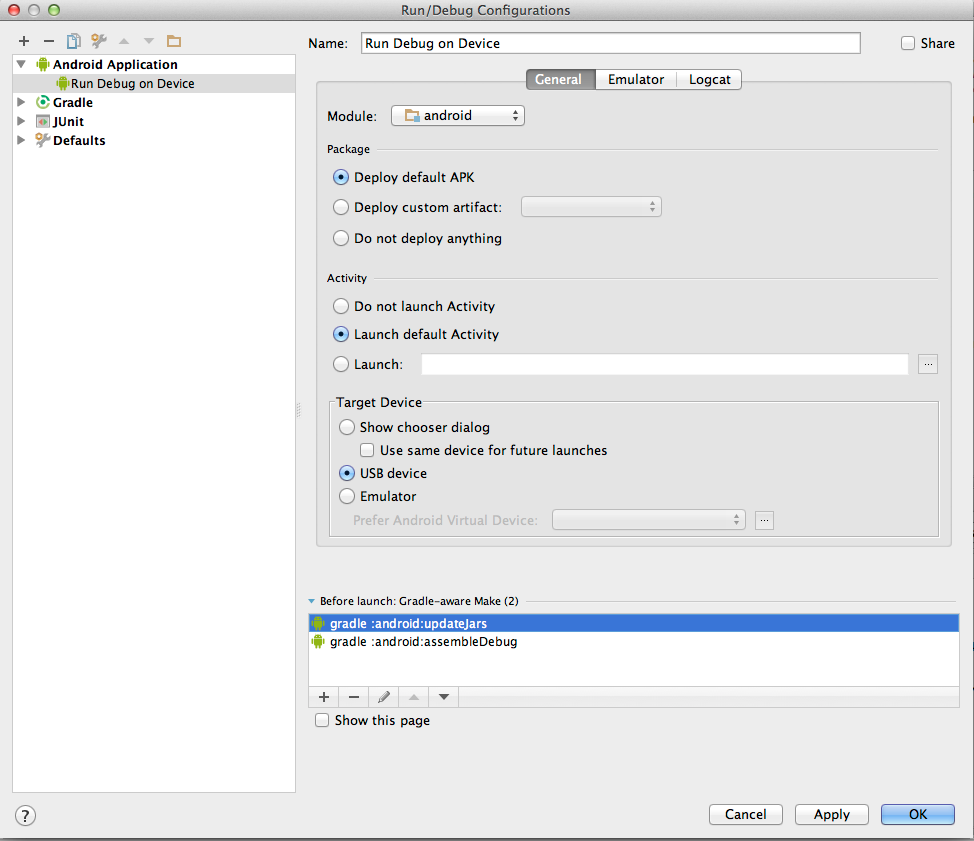
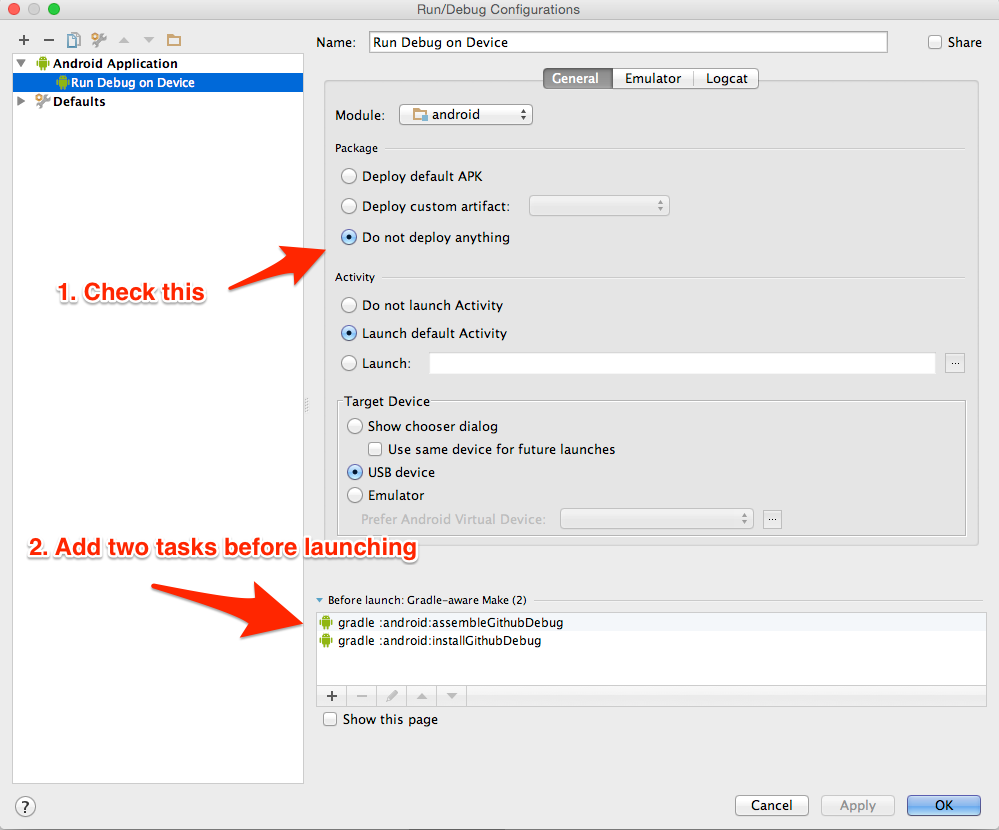
updated android studio configuration removed ACRA configuration from private properties as it's baked into the build.gradle file now. Updated the PNG to include highlights to things you must set.

diff --git a/README.md b/README.md
@@ -12,24 +12,44 @@ make
 [![Add new run configuration](https://raw.githubusercontent.com/mozilla/MozStumbler/dev/docs/screencaps/add_new_config.png)](https://raw.githubusercontent.com/mozilla/MozStumbler/dev/docs/screencaps/add_new_config.png)
 
 Setup the Android Application to use two gradle aware make targets.
-Make sure you run updateJars first, then assembleDebug.
+You must set Package to be installed to "Do not deploy anything".
+Make sure you run assembleGithubDebug, then installGithubDebug.
 
 [![Setup new run configuration](https://raw.githubusercontent.com/mozilla/MozStumbler/dev/docs/screencaps/setup_android_config.png)](https://raw.githubusercontent.com/mozilla/MozStumbler/dev/docs/screencaps/setup_android_config.png)
 
 # Signing #
 
-In order to sign the APK, you will want to create a 'gradle.properties' file.  The content should look like the following except it should contain your key signing
-information:
+In order to sign the APK, you will want to create a
+'signing.properties' file under `android/properties`.  The content
+should look like the following except it should contain your key
+signing information:
 
 ```
 StoreFile=<path to file>
 StorePassword=<password>
 KeyAlias=<key alias>
 KeyPassword=<password>
-MozAPIKey=<mozilla location service api key>
-MapAPIKey=<osm tile server key>
-TileServerURL=<osm tile server>  # optional
 ```
+
+To submit data using your own Mozilla API key to the Mozilla Location
+Service, you will need a private-<productFlavor>.properties file in
+`android/properties`. An example properties file is available in
+`android/properties/example.properties`.
+
+The gradle build will pick up private-<productFlavor>.properties
+automatically.
+
+So with :
+
+```
+./gradlew assembleGithubDebug
+```
+
+The build system will pick up
+`android/properties/private-github.properties` as well as
+`android/properties/signing.properties`.  If either of these property
+files do not exist, then empty strings will be used.
+
 For the OSM (OpenStreetMap) Tile Server, you have several options:
 
 * *[MapBox](https://www.mapbox.com/)* (easy, secure) is a hosted OSM
@@ -81,25 +101,17 @@ You will probably find only the `android-release-unsigned.apk` file.
 
 # Releasing #
 
-The release process is largely automated.
-
 1. Bump the version numbers at the top of android/build.gradle
-2. Make sure you've got a private.properties file at the top level of
-   the project.
-3. You should have your keystore file at the top level of the project.
-4. Run `make release`
-5. You should end up with a signed apk MozStumbler-v<whatever_the_version_is>.apk in the rootProject/outputs directory.
-6. Browse to https://github.com/mozilla/MozStumbler/releases.
-7. "Draft a new release" with the release title "MozStumbler v$MOZSTUMBLER_VERSION" and tag version "v$MOZSTUMBLER_VERSION".
-8. Add some release notes and give @credit to contributors!
-9. Drag and drop the new MozStumbler-v$MOZSTUMBLER_VERSION.apk to the "Attach binaries for this release by dropping them here." box.
-10. Check "This is a pre-release" because perpetual beta.
-11. Save the changes.
-12. Tag this release in github with the release version number so that
-    we can reproduce the build (eg: v0.9.0.0).
-13. Push the changes and tag to GitHub and file a PR to merge to
-    master.
-14. Merge the new version pull request. When the new VERSION file is
-    merged in, clients will be able to download the new release.
-15. Email a release announcment to the dev-geolocation mailing list with release notes giving @credit to contributors and a link to the release's page https://github.com/mozilla/MozStumbler/releases/tag/v$MOZSTUMBLER_VERSION.
-14. Good work!  Pat yourself on your back.
+2. Make sure you have your signing keys,
+   private-<productFlavor>.properties and signing.properties file configured.
+3. You should have your keystore file in the `android/properties`
+   directory.
+4. Ensure all code is commited.  Tag the release with v<majorVersion>.<Minor>.<Patch> versions.
+   You *must* prefix the version with a 'v'.
+5. Push tags to wherever you need to.
+6. There are now Github and Google Play Store releases.  Execute
+   them with `make github` or `make playstore`.
+7. You should end up with a signed apk MozStumbler-v<whatever_the_version_is>.apk in the `outputs` directory.
+8. Browse to https://github.com/mozilla/MozStumbler/releases.
+9. Update the release tag with the apk file.
+10. Add some release notes and give @credit to contributors!
